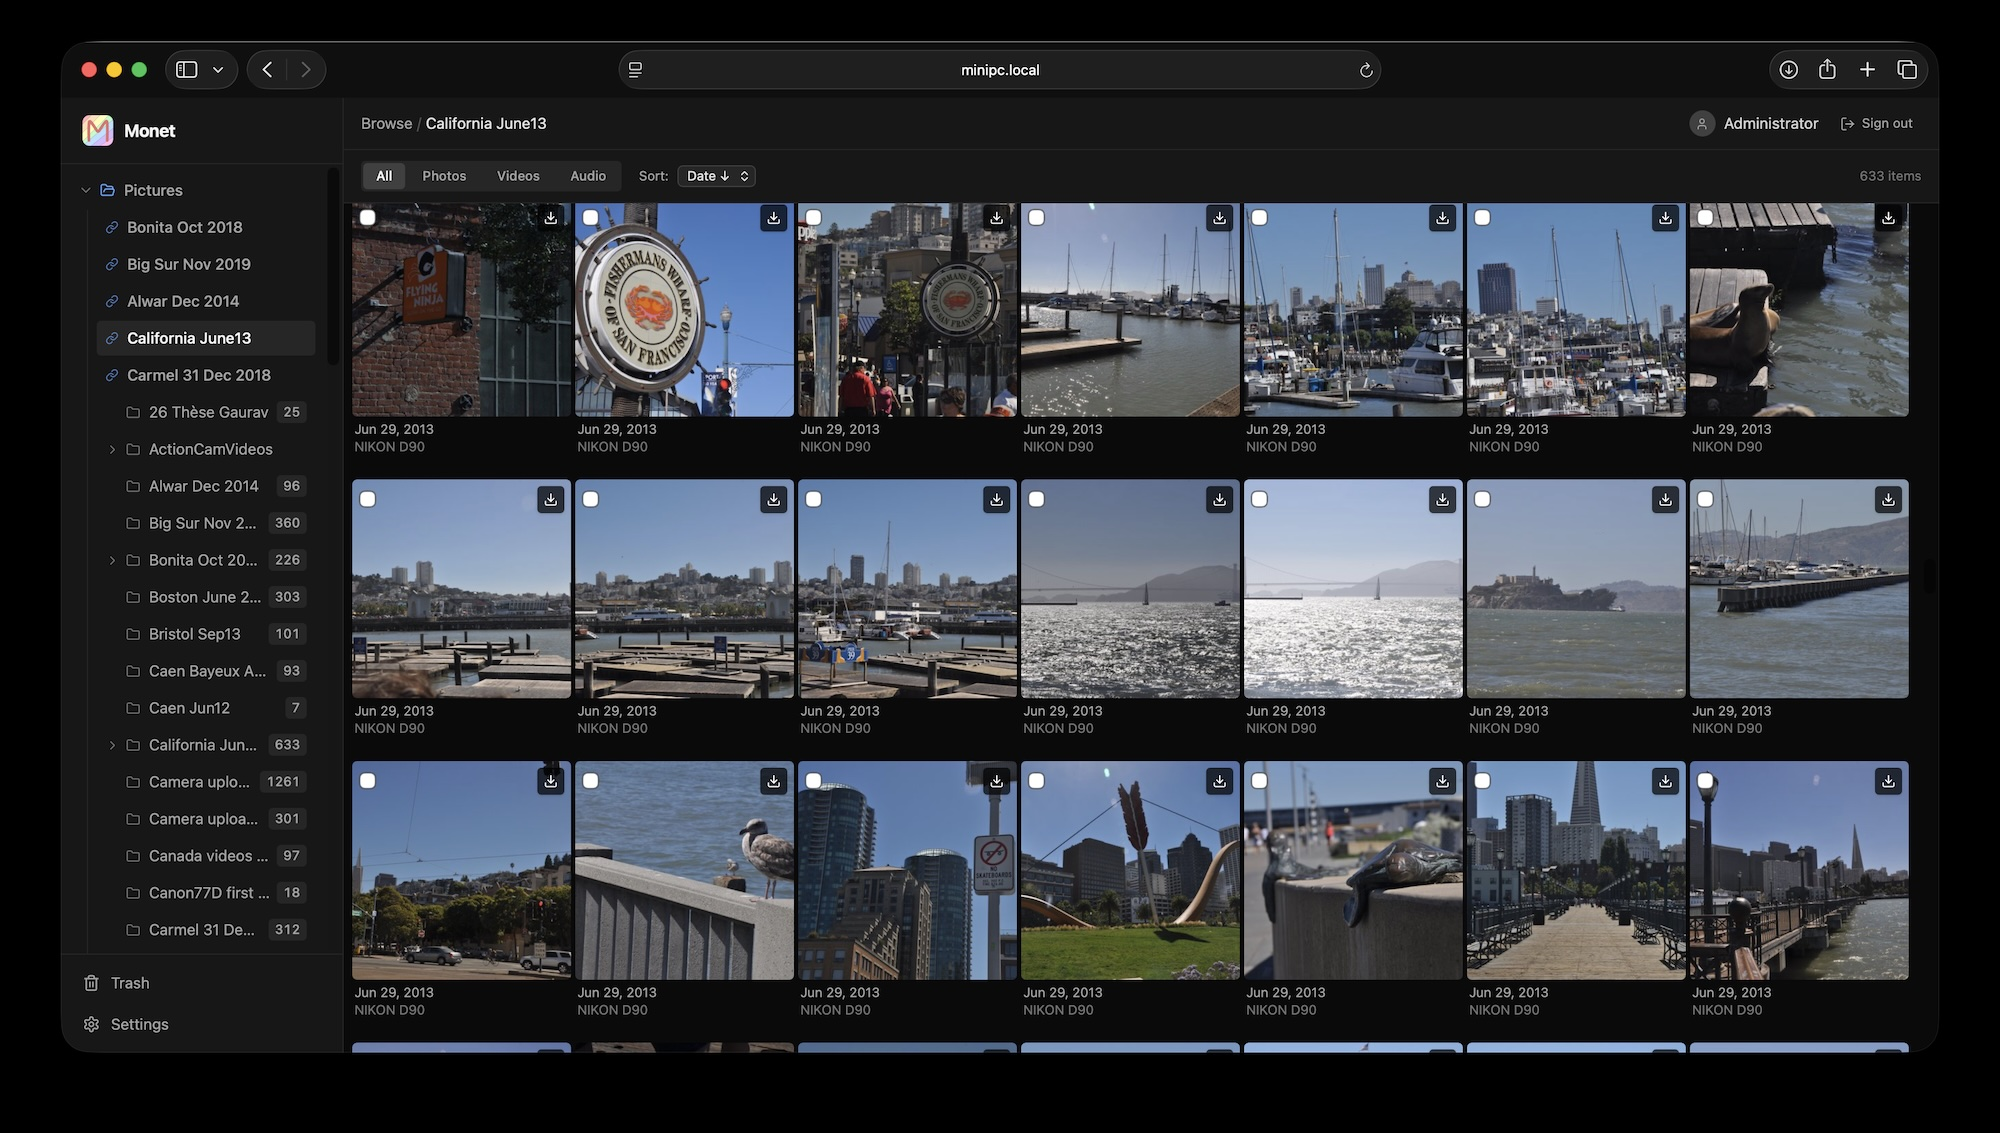
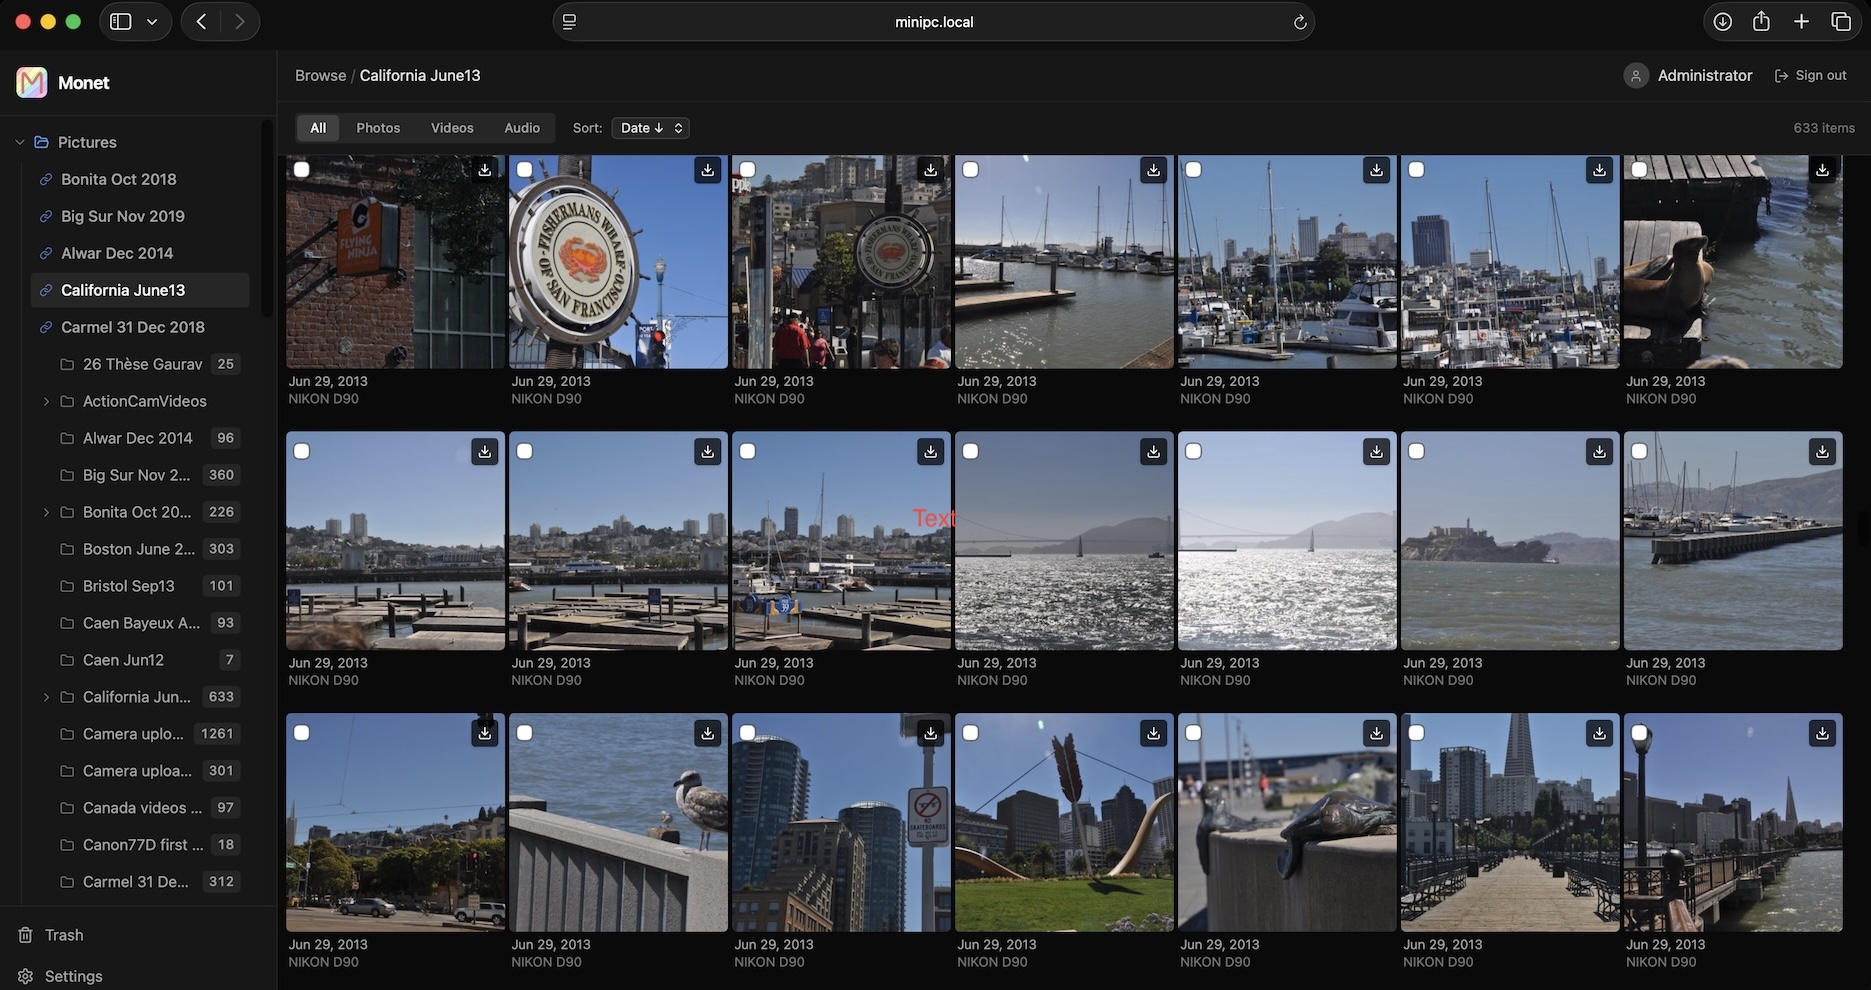
Fix CI: ESLint 9 flat config, coverage write permissions, update screenshot
Frontend lint:
- Create eslint.config.js (flat config required by ESLint 9+)
- Add @typescript-eslint/parser and eslint-plugin-react-hooks devDeps
- Remove --ext ts,tsx from lint script (ESLint 9 uses files[] in config)
- Disable react-hooks/set-state-in-effect and incompatible-library rules
  (React Compiler rules added in react-hooks v7, not applicable here)

Backend tests:
- Set COVERAGE_FILE=/tmp/.coverage in test container to avoid permission
  error writing .coverage into the bind-mounted /app directory

Docs:
- Update README screenshot with tighter crop

diff --git a/frontend/eslint.config.js b/frontend/eslint.config.js
@@ -1,0 +1,31 @@
+import tsPlugin from '@typescript-eslint/eslint-plugin'
+import tsParser from '@typescript-eslint/parser'
+import reactHooks from 'eslint-plugin-react-hooks'
+
+export default [
+  {
+    ignores: ['dist/**', 'node_modules/**'],
+  },
+  {
+    files: ['**/*.{ts,tsx}'],
+    plugins: {
+      '@typescript-eslint': tsPlugin,
+      'react-hooks': reactHooks,
+    },
+    languageOptions: {
+      parser: tsParser,
+      parserOptions: {
+        ecmaVersion: 2020,
+        sourceType: 'module',
+      },
+    },
+    rules: {
+      ...tsPlugin.configs.recommended.rules,
+      ...reactHooks.configs.recommended.rules,
+      // React Compiler compatibility rules introduced in react-hooks v7 —
+      // not applicable since we're not using the React Compiler.
+      'react-hooks/set-state-in-effect': 'off',
+      'react-hooks/incompatible-library': 'off',
+    },
+  },
+]
